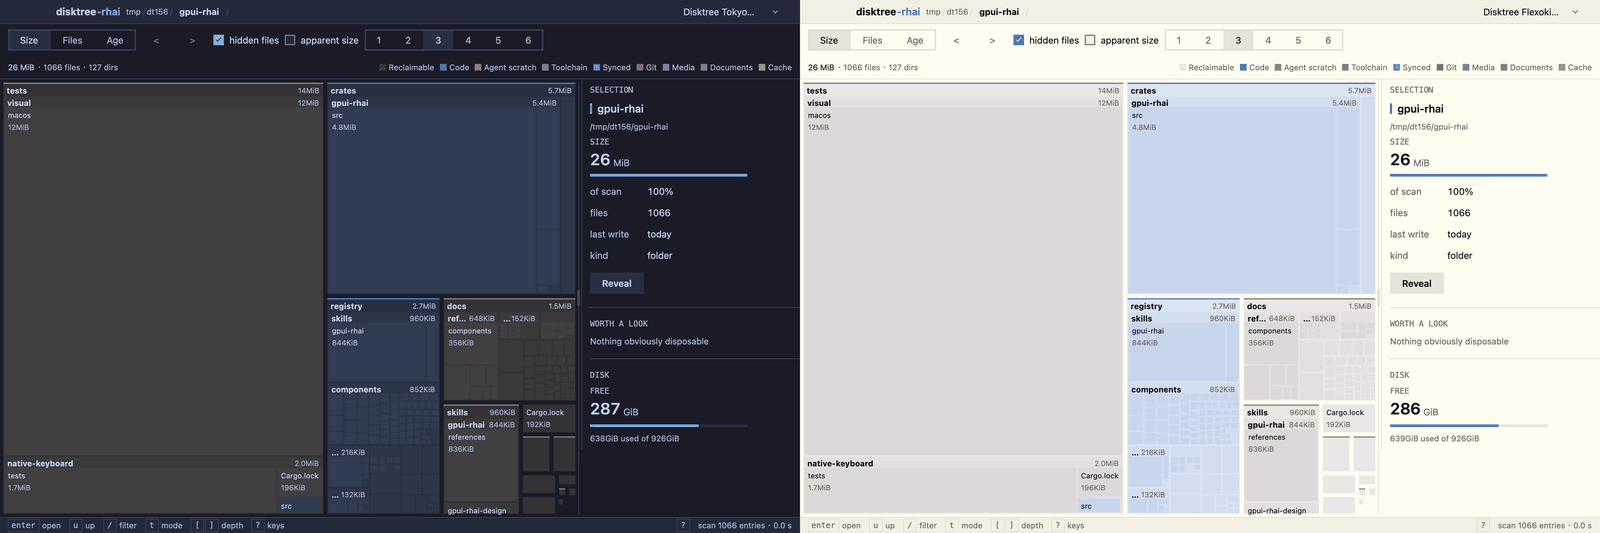
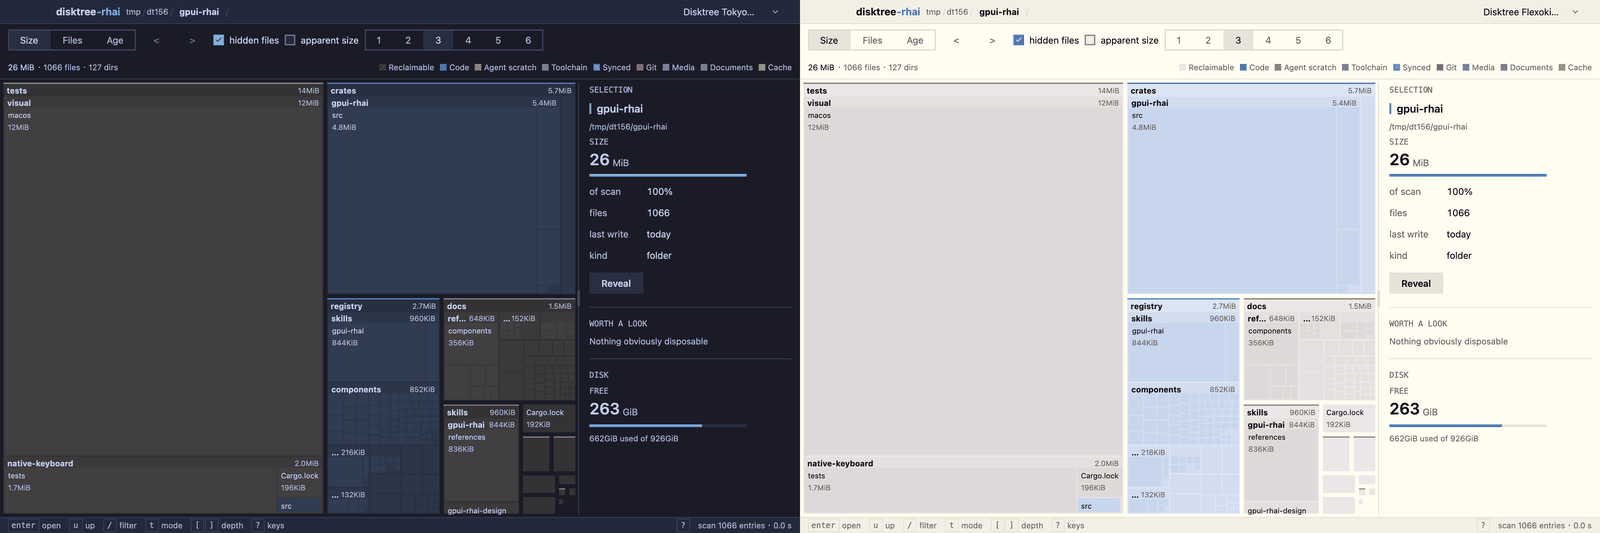
fix(disktree): drag the real separator; the sidebar fills its pane
key_harness pressed a fixed point left over from the hand-rolled split,
which now lands on the mosaic, so the drag step tested nothing. It now
finds the side panel's separator in the accessibility snapshot, drags it
150px and asserts it followed; pressing 40px off fails the assertion.

The first real drag showed two app bugs from the switch to SplitPane: the
sidebar kept a fixed 368px inside the wider pane, leaving an empty strip,
and its left border doubled SplitPane's own line. The sidebar fills the
pane without a border, and the unused `panel_width` state is gone.
`SHOT_DRAG` presses the separator the same way; the README image is
regenerated without the doubled line.

UPSTREAM_GAPS records the 2026-10-22 re-check of G5 (#185), G9 (resolved
upstream) and G11 (#186; the SplitPane double-press deferred).

diff --git a/apps/disktree/examples/key_harness/macos.rs b/apps/disktree/examples/key_harness/macos.rs
@@ -127,6 +127,20 @@ fn variant_name(cx: &mut VisualTestAppContext, view: &ScriptViewHandle) -> Strin
         .clone()
 }
 
+/// The side panel's separator, where the last frame put it.
+fn separator_bounds(
+    cx: &mut VisualTestAppContext,
+    view: &ScriptViewHandle,
+) -> gpui_rhai::GeometryBounds {
+    cx.update(|cx| view.accessibility_snapshot(cx))
+        .expect("accessibility snapshot")
+        .nodes()
+        .find(|node| node.role == "separator" && node.name == "Resize the side panel")
+        .and_then(|node| node.geometry.as_ref())
+        .map(|geometry| geometry.layout)
+        .expect("the side panel separator is presented")
+}
+
 /// A small deterministic tree the scan finishes on instantly.
 fn fixture_tree() -> tempfile::TempDir {
     let dir = tempfile::tempdir().expect("tempdir");
@@ -220,30 +234,31 @@ pub fn main() {
     assert_ne!(before, after, "the e key changed the theme");
     assert_no_error(&mut cx, &view, "theme");
 
-    // The side panel's hand-rolled drag: press its edge, drag wider,
-    // release, then a double press resets it. No script errors throughout.
+    // The side panel's SplitPane: press the separator where it is drawn,
+    // drag it left, release. The separator must follow and stay (the
+    // release commits `panel_ratio` through on_resize).
     {
-        let handle = gpui::point(gpui::px(1200.0 - 368.0 - 4.0), gpui::px(400.0));
-        let wider = gpui::point(gpui::px(1200.0 - 500.0 - 4.0), gpui::px(400.0));
-        let none = gpui::Modifiers::default();
-        cx.simulate_mouse_down(window, handle, gpui::MouseButton::Left, none);
-        cx.simulate_mouse_move(
-            window,
-            wider,
-            gpui::MouseButton::Left,
-            gpui::Modifiers::default(),
+        let before = separator_bounds(&mut cx, &view);
+        let press = gpui::point(
+            gpui::px((before.x + before.width / 2.0) as f32),
+            gpui::px((before.y + before.height / 2.0) as f32),
         );
+        let wider = gpui::point(press.x - gpui::px(150.0), press.y);
+        let none = gpui::Modifiers::default();
+        cx.simulate_mouse_down(window, press, gpui::MouseButton::Left, none);
+        cx.simulate_mouse_move(window, wider, gpui::MouseButton::Left, none);
         settle(&mut cx, window).expect("settle drag");
         cx.simulate_mouse_up(window, wider, gpui::MouseButton::Left, none);
         settle(&mut cx, window).expect("settle release");
         assert_no_error(&mut cx, &view, "panel drag");
-        // Double press resets the width.
-        cx.simulate_mouse_down(window, wider, gpui::MouseButton::Left, none);
-        cx.simulate_mouse_up(window, wider, gpui::MouseButton::Left, none);
-        cx.simulate_mouse_down(window, wider, gpui::MouseButton::Left, none);
-        cx.simulate_mouse_up(window, wider, gpui::MouseButton::Left, none);
-        settle(&mut cx, window).expect("settle reset");
-        assert_no_error(&mut cx, &view, "panel reset");
+        let after = separator_bounds(&mut cx, &view);
+        let moved = before.x - after.x;
+        assert!(
+            (moved - 150.0).abs() <= 2.0,
+            "the separator followed the drag: x {} -> {}",
+            before.x,
+            after.x
+        );
     }
 
     // Rescan while mounted.

diff --git a/apps/disktree/examples/screenshot/macos.rs b/apps/disktree/examples/screenshot/macos.rs
@@ -170,8 +170,20 @@ pub fn main() {
     }
     // Optional: drag the side panel wider before capturing.
     if std::env::var_os("SHOT_DRAG").is_some() {
-        let handle = gpui::point(gpui::px(1200.0 - 368.0 - 4.0), gpui::px(400.0));
-        let wider = gpui::point(gpui::px(1200.0 - 520.0), gpui::px(400.0));
+        // Press the side panel's separator where the frame drew it.
+        let separator = cx
+            .update(|cx| view.accessibility_snapshot(cx))
+            .expect("accessibility snapshot")
+            .nodes()
+            .find(|node| node.role == "separator" && node.name == "Resize the side panel")
+            .and_then(|node| node.geometry.as_ref())
+            .map(|geometry| geometry.layout)
+            .expect("the side panel separator is presented");
+        let handle = gpui::point(
+            gpui::px((separator.x + separator.width / 2.0) as f32),
+            gpui::px((separator.y + separator.height / 2.0) as f32),
+        );
+        let wider = gpui::point(handle.x - gpui::px(150.0), handle.y);
         let none = gpui::Modifiers::default();
         cx.simulate_mouse_down(window, handle, gpui::MouseButton::Left, none);
         cx.simulate_mouse_move(window, wider, gpui::MouseButton::Left, none);

diff --git a/apps/disktree/docs/UPSTREAM_GAPS.md b/apps/disktree/docs/UPSTREAM_GAPS.md
@@ -73,6 +73,9 @@ a gpui-rhai issue, and an app-side workaround links to it.
   its root render. Upstream suggestion: `ScriptApplication` (or an env
   flag like `GPUI_RHAI_STDERR_DIAGNOSTICS=1`) should mirror mount/render
   errors to stderr so unattended runs can fail loudly.
+- **Re-checked 2026-10-22 (main)**: still open. Failures are sticky and
+  structured now (`last_error` / `last_diagnostic`), but reach no stderr and
+  no observer; only fatal startup errors print. Filed as gpui-rhai#185.
 
 ## G7 — Node key handlers rejected punctuation keys
 
@@ -179,6 +182,11 @@ a gpui-rhai issue, and an app-side workaround links to it.
 - **Suggested upstream**: (a) document the cumulative semantics in the
   store/capability docs; (b) like PR #96 did for the op budget, let hosts
   configure (or raise) `max_array_size` for trusted embedded skins.
+- **Re-checked 2026-10-22 (main)**: resolved upstream. `docs/rhai.md` (Limits)
+  documents the cumulative counting, and a Host raises the limit in
+  `ScriptViewExtension::configure_rhai_engine` (`engine.set_max_array_size`):
+  200 rows of 60 items fail by default and pass at 50,000, both built locally
+  and written to an app store. The skin-side measures above stay; they work.
 
 ## G11 — Timer-driven script animation and handle double-clicks
 
@@ -195,6 +203,12 @@ a gpui-rhai issue, and an app-side workaround links to it.
 - **Suggested upstream**: (a) an animation-frame or native-transition hook
   scripts can attach to; (b) a handle event or `on_double_click` part hook
   on SplitPane.
+- **Re-checked 2026-10-22 (main)**: (a) Motion samples in Rust by design and
+  never calls Rhai per frame; Canvas primitives take native scale and
+  translate, but gpui-pre transforms no subtree, so text labels cannot scale
+  with the mosaic. Planned: a custom cubic-bezier easing (gpui-rhai#186), then
+  a native canvas zoom with the labels faded in at the end. (b) Still open:
+  SplitPane emits only `resize`; deferred, not filed.
 
 ## G12 — SplitPane panels drop absolutely-positioned content (post-grips runtime)
 

diff --git a/apps/disktree/docs/CHECKLIST.md b/apps/disktree/docs/CHECKLIST.md
@@ -126,3 +126,11 @@ skins; key_harness and screenshot build on every platform and run on
 macOS. Verified on macOS: `cargo test` (unit tests + 3 skins),
 key_harness, and a screenshot of a scanned tree with the official
 SplitPane.
+
+2026-10-22 later: key_harness drags the side panel's separator where the
+frame draws it (found through the accessibility snapshot) and asserts it
+moved 150px; the old fixed point pressed the mosaic and tested nothing. The
+first real drag showed the sidebar kept its fixed 368px inside the wider
+pane, leaving an empty strip, and its left border doubled SplitPane's own
+line: the sidebar now fills the pane without a border, and the unused
+`panel_width` state is gone. `SHOT_DRAG` presses the separator the same way.
